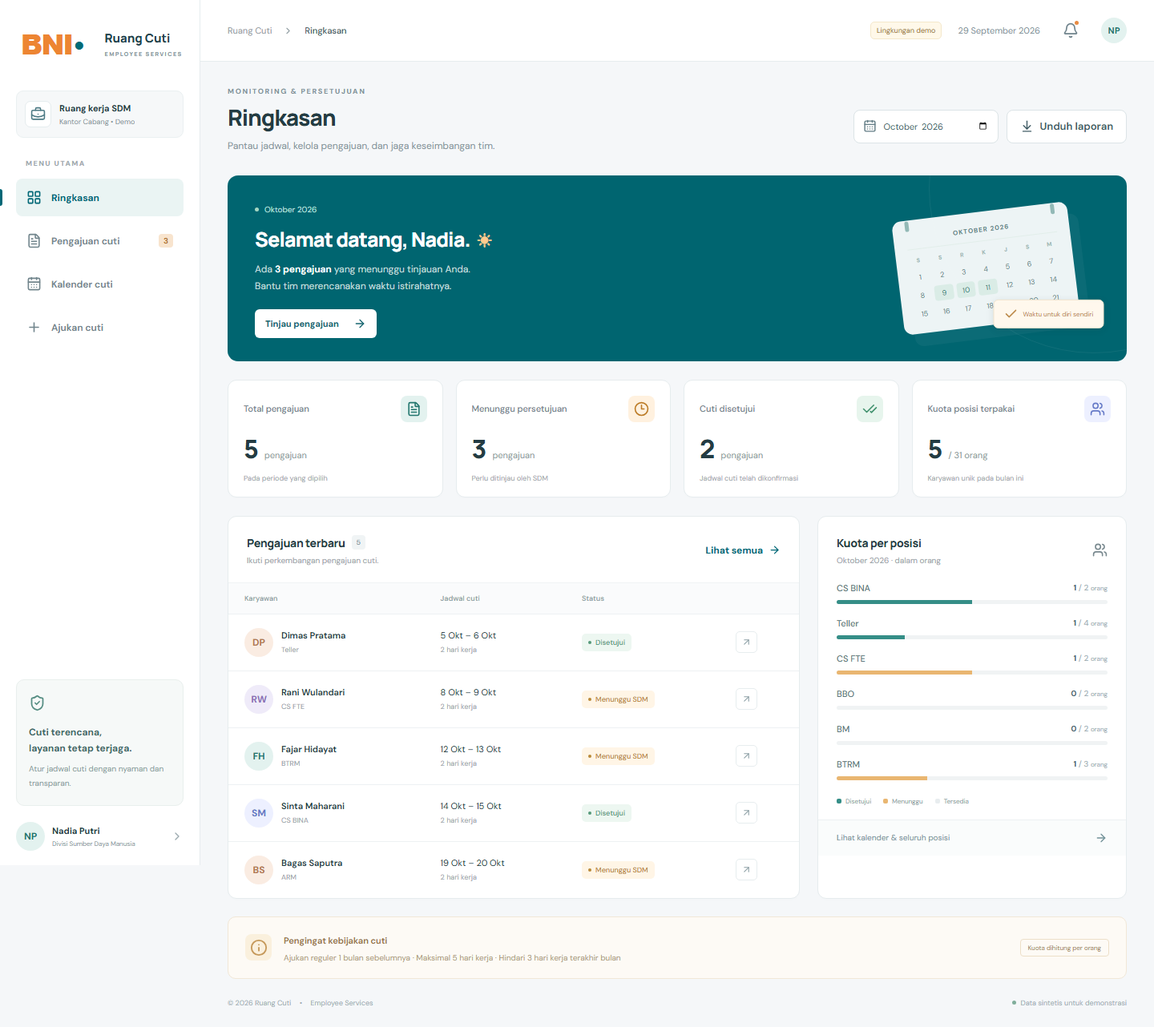
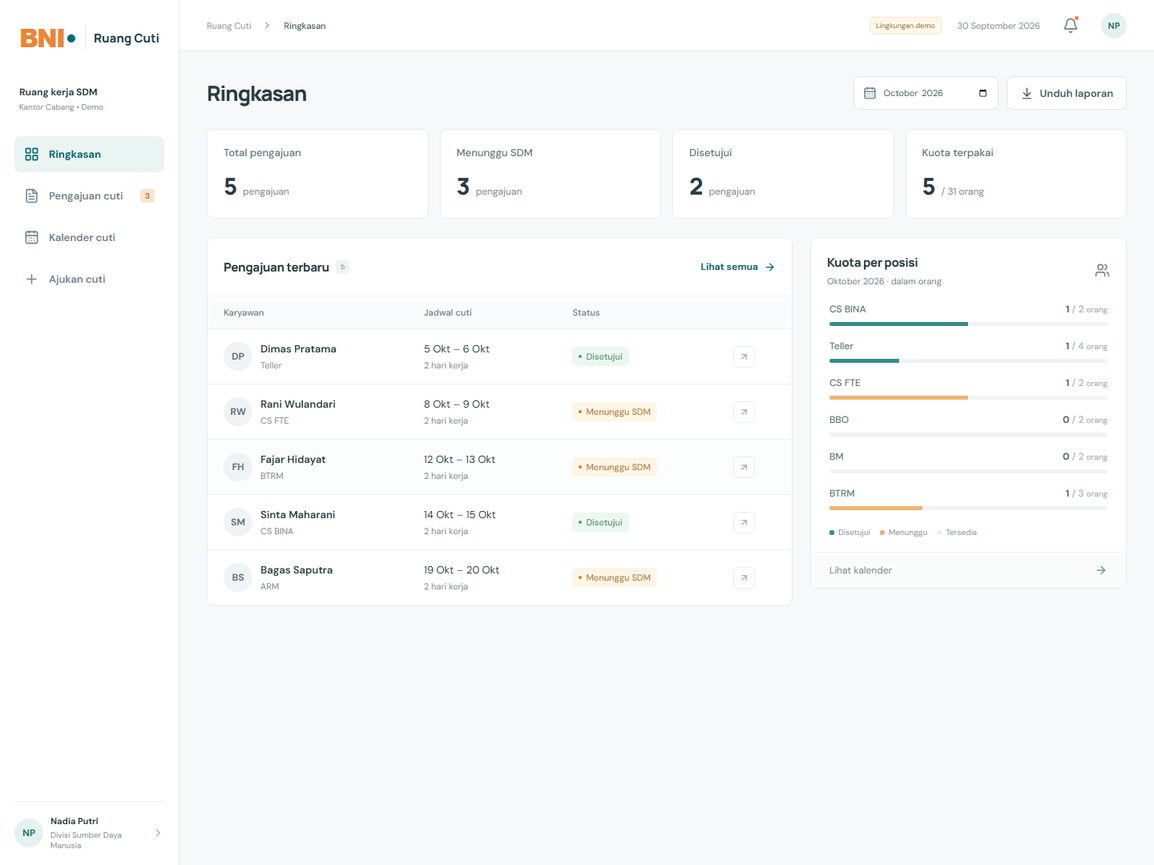
style: simplify leave management interface and dashboard

diff --git a/src/App.tsx b/src/App.tsx
@@ -6,7 +6,7 @@ const fmt=(d:string,full=false)=>d?new Intl.DateTimeFormat('id-ID',{day:'numeric
 const monthLabel=(m:string)=>new Intl.DateTimeFormat('id-ID',{month:'long',year:'numeric'}).format(new Date(m+'-01T00:00:00'));
 const initials=(name:string)=>name.split(' ').slice(0,2).map(n=>n[0]).join('');
 const Badge=({status}:{status:Leave['status']})=><span className={'badge '+status.toLowerCase()}><span/>{statusLabel[status]}</span>;
-const Empty=({title='Belum ada pengajuan',text='Pengajuan yang masuk akan tampil di sini.'}:{title?:string;text?:string})=><div className="empty"><FileText size={30}/><h3>{title}</h3><p>{text}</p></div>;
+const Empty=({title='Belum ada pengajuan',text=''}:{title?:string;text?:string})=><div className="empty"><FileText size={30}/><h3>{title}</h3>{text&&<p>{text}</p>}</div>;
 const Field=({label,children,hint}:{label:string;children:ReactNode;hint?:string})=><label className="field"><span>{label}</span>{children}{hint&&<small>{hint}</small>}</label>;
 type Page='dashboard'|'requests'|'calendar'|'form'|'profile'|'admin'|'notifications';
 export default function App(){
@@ -26,13 +26,13 @@ export default function App(){
   const pending=data?.requests.filter((r:Leave)=>r.status==='PENDING_SDM').length??0;
   return <div className="app-shell">
     {menu&&<div className="menu-scrim" onClick={()=>setMenu(false)}/>}
-    <aside className={'sidebar '+(menu?'open':'')}><div className="brand"><div className="brand-word">BNI<span>•</span></div><span className="brand-divider"/><div className="brand-product">Ruang Cuti<small>EMPLOYEE SERVICES</small></div></div>
+    <aside className={'sidebar '+(menu?'open':'')}><div className="brand"><div className="brand-word">BNI<span>•</span></div><span className="brand-divider"/><div className="brand-product">Ruang Cuti</div></div>
       <div className="workspace"><div className="workspace-icon"><BriefcaseBusiness size={19}/></div><div><strong>{sdm?'Ruang kerja SDM':admin?'Administrator':'Ruang karyawan'}</strong><small>{data?.unitName??'Kantor Cabang'}</small></div></div>
-      <p className="nav-label">MENU UTAMA</p><nav>{navItems.map(([id,Icon,label])=><button key={id} className={page===id?'active':''} onClick={()=>nav(id)}><Icon size={19}/><span>{label}</span>{id==='requests'&&pending>0&&<b className="nav-count">{pending}</b>}</button>)}{!admin&&<button className={page==='form'?'active':''} onClick={newLeave}><Plus size={19}/><span>Ajukan cuti</span></button>}{admin&&<button className={page==='admin'?'active':''} onClick={()=>nav('admin')}><Settings2 size={19}/><span>Administrasi</span></button>}</nav>
-      <div className="sidebar-bottom"><div className="sidebar-note"><ShieldCheck size={21}/><strong>Cuti terencana,<br/>layanan tetap terjaga.</strong><p>Atur jadwal cuti dengan nyaman dan transparan.</p></div><button className="user-card" onClick={()=>nav('profile')}><span className="avatar teal">{initials(user.name)}</span><span><strong>{user.name}</strong><small>{sdm?'Divisi Sumber Daya Manusia':positionLabel(user.position)}</small></span><ChevronRight size={16}/></button></div>
+      <nav>{navItems.map(([id,Icon,label])=><button key={id} className={page===id?'active':''} onClick={()=>nav(id)}><Icon size={19}/><span>{label}</span>{id==='requests'&&pending>0&&<b className="nav-count">{pending}</b>}</button>)}{!admin&&<button className={page==='form'?'active':''} onClick={newLeave}><Plus size={19}/><span>Ajukan cuti</span></button>}{admin&&<button className={page==='admin'?'active':''} onClick={()=>nav('admin')}><Settings2 size={19}/><span>Administrasi</span></button>}</nav>
+      <div className="sidebar-bottom"><button className="user-card" onClick={()=>nav('profile')}><span className="avatar teal">{initials(user.name)}</span><span><strong>{user.name}</strong><small>{sdm?'Divisi Sumber Daya Manusia':positionLabel(user.position)}</small></span><ChevronRight size={16}/></button></div>
     </aside>
     <div className="main-shell"><header className="topbar"><button className="icon-button mobile-menu" aria-label="Buka menu" onClick={()=>setMenu(true)}><Menu/></button><div className="breadcrumb">Ruang Cuti <ChevronRight size={13}/><strong>{pageTitles[page]}</strong></div><div className="top-actions">{config?.demo&&<span className="demo-pill">Lingkungan demo</span>}<span className="today">{fmt(data?.today??config?.today??dateOnly(),true)}</span><button className="icon-button notification-button" aria-label="Notifikasi" onClick={()=>nav(admin?'admin':'notifications')}><Bell size={20}/>{pending>0&&<i/>}</button><button className="avatar small teal" aria-label="Profil saya" onClick={()=>nav('profile')}>{initials(user.name)}</button></div></header>
-      <main><div className="page-heading"><div><p className="eyebrow">{sdm?'MONITORING & PERSETUJUAN':admin?'PENGELOLAAN SISTEM':'LAYANAN KARYAWAN'}</p><h1>{pageTitles[page]}</h1><p>{page==='dashboard'?'Pantau jadwal, kelola pengajuan, dan jaga keseimbangan tim.':page==='form'?'Rencanakan waktu istirahat Anda. Kami bantu periksa jadwalnya.':page==='calendar'?'Lihat ketersediaan jadwal dan cuti tim dalam satu kalender.':page==='requests'?'Semua pengajuan dan perkembangannya, dalam satu tempat.':'Kelola informasi dan aktivitas di Ruang Cuti.'}</p></div>{['dashboard','requests','calendar'].includes(page)&&<div className="heading-actions"><label className="month-control"><CalendarDays size={17}/><input aria-label="Bulan monitoring" type="month" value={month} onChange={e=>{if(e.target.value)setMonth(e.target.value);}}/></label>{sdm?<a className="button secondary" href={'/api/reports.csv?month='+month}><ArrowDownToLine size={17}/>Unduh laporan</a>:!admin&&<button className="button primary" onClick={newLeave}><Plus size={18}/>Ajukan cuti</button>}</div>}</div>
+      <main><div className="page-heading"><div><h1>{pageTitles[page]}</h1></div>{['dashboard','requests','calendar'].includes(page)&&<div className="heading-actions"><label className="month-control"><CalendarDays size={17}/><input aria-label="Bulan monitoring" type="month" value={month} onChange={e=>{if(e.target.value)setMonth(e.target.value);}}/></label>{sdm?<a className="button secondary" href={'/api/reports.csv?month='+month}><ArrowDownToLine size={17}/>Unduh laporan</a>:!admin&&<button className="button primary" onClick={newLeave}><Plus size={18}/>Ajukan cuti</button>}</div>}</div>
       {error&&<div className="alert danger" role="alert">{error}<button onClick={reload}>Coba lagi</button></div>}
       {loading&&!data?<div className="skeleton-grid"><div/><div/><div/></div>:data&&<>
         {page==='dashboard'&&<Dashboard data={data} month={month} sdm={!!sdm} name={user.name} onSelect={setSelected} onRequests={()=>nav('requests')} onCalendar={()=>nav('calendar')} onNew={newLeave} admin={!!admin}/>}
@@ -43,7 +43,7 @@ export default function App(){
         {page==='notifications'&&<section className="panel"><div className="panel-heading"><h2>Aktivitas pengajuan</h2><span className="muted">Status terbaru</span></div>{data.requests.length?data.requests.filter((r:Leave)=>r.status!=='DRAFT').slice(0,15).map((r:Leave)=><button className="activity-row" key={r.id} onClick={()=>setSelected(r)}><span className="activity-icon"><Bell size={18}/></span><span><strong>{r.employeeName} • {r.number}</strong><small>{r.events.at(-1)?.text} · {fmt(r.effectiveStart)}</small></span><Badge status={r.status}/></button>):<Empty title="Belum ada aktivitas"/>}</section>}
         {page==='admin'&&admin&&<Admin onChange={reload} onToast={setToast} today={data.today}/>}
       </>}
-      <footer className="footer"><span>© {new Date().getFullYear()} Ruang Cuti <span className="footer-dot">•</span> Employee Services</span><span><span className="live-dot"/> {config?.demo?'Data sintetis untuk demonstrasi':'Layanan internal'}</span></footer>
+
       </main>
     </div>
     {toast&&<div className="toast" role="status"><CheckCircle2 size={19}/>{toast}</div>}
@@ -53,24 +53,24 @@ export default function App(){
 function Login({config,onLogin}:{config:any;onLogin:(u:Employee)=>void}){
   const [email,setEmail]=useState('');const [password,setPassword]=useState('');const [error,setError]=useState('');const [busy,setBusy]=useState(false);
   async function login(e:FormEvent){e.preventDefault();setBusy(true);setError('');try{onLogin(await action('/login',{email,password}));}catch(e){setError((e as Error).message);}finally{setBusy(false);}}
-  return <div className="login"><div className="login-story"><div className="brand-word light">BNI<span>•</span></div><span className="story-label">RUANG CUTI / EMPLOYEE SERVICES</span><h1>Ruang untuk<br/>beristirahat.<br/><em>Siap untuk<br/>kembali.</em></h1><p>Pengajuan cuti yang lebih mudah, jadwal tim yang lebih terencana.</p><div className="login-mini"><CalendarDays size={30}/><div><strong>Satu ruang, semua terhubung.</strong><span>Karyawan · Tim SDM · Jadwal cuti</span></div></div><div className="story-circles"/></div><div className="login-main"><div className="login-box"><span className="login-icon"><Leaf size={25}/></span><p className="eyebrow">SELAMAT DATANG</p><h2>Masuk ke Ruang Cuti</h2><p className="muted">Gunakan akun karyawan Anda untuk melanjutkan.</p><form onSubmit={login}><Field label="Email karyawan"><input type="email" autoComplete="username" placeholder="nama@perusahaan.co.id" value={email} onChange={e=>setEmail(e.target.value)} required/></Field><Field label="Kata sandi"><input type="password" autoComplete="current-password" placeholder="Masukkan kata sandi" value={password} onChange={e=>setPassword(e.target.value)} required/></Field>{error&&<div className="alert danger" role="alert">{error}</div>}<button className="button primary full" disabled={busy}>{busy?'Memeriksa akun…':'Masuk'}<ArrowRight size={18}/></button></form>{config?.demo&&<div className="demo-accounts"><span>COBA DENGAN AKUN DEMO</span><div>{[['SDM','sdm'],['Karyawan','karyawan'],['Admin','admin']].map(([label,account])=><button key={account} onClick={()=>{setEmail(account+'@demo.bni.local');setPassword('BniCuti!2026');setError('');}}>{label}<ArrowUpRight size={13}/></button>)}</div><small>Akun dan data pada lingkungan ini adalah data contoh.</small></div>}<p className="login-security"><ShieldCheck size={15}/> Akses terbatas untuk karyawan yang terdaftar</p></div></div></div>;
+  return <div className="login"><div className="login-main"><div className="login-box"><div className="brand-word">BNI<span>•</span></div><h2>Ruang Cuti</h2><form onSubmit={login}><Field label="Email karyawan"><input type="email" autoComplete="username" placeholder="nama@perusahaan.co.id" value={email} onChange={e=>setEmail(e.target.value)} required/></Field><Field label="Kata sandi"><input type="password" autoComplete="current-password" placeholder="Masukkan kata sandi" value={password} onChange={e=>setPassword(e.target.value)} required/></Field>{error&&<div className="alert danger" role="alert">{error}</div>}<button className="button primary full" disabled={busy}>{busy?'Memeriksa akun…':'Masuk'}<ArrowRight size={18}/></button></form>{config?.demo&&<div className="demo-accounts"><span>AKUN DEMO</span><div>{[['SDM','sdm'],['Karyawan','karyawan'],['Admin','admin']].map(([label,account])=><button key={account} onClick={()=>{setEmail(account+'@demo.bni.local');setPassword('BniCuti!2026');setError('');}}>{label}<ArrowUpRight size={13}/></button>)}</div><small>Data contoh untuk uji coba.</small></div>}</div></div></div>;
 }
-function Dashboard({data,month,sdm,name,onSelect,onRequests,onCalendar,onNew,admin}:any){
+function Dashboard({data,month,sdm,onSelect,onRequests,onCalendar}:any){
   const current:Leave[]=data.requests.filter((r:Leave)=>r.effectiveStart.startsWith(month)&&r.status!=='DRAFT');const waiting=current.filter(r=>r.status==='PENDING_SDM');const approved=current.filter(r=>r.status==='APPROVED');const quotas:Quota[]=data.quotas;const used=quotas.reduce((a,q)=>a+q.used,0);const total=quotas.reduce((a,q)=>a+q.limit,0);
-  return <><section className="welcome"><div><span className="welcome-label"><span/> {monthLabel(month)}</span><h2>Selamat datang, {name.split(' ')[0]}. <span className="sun">☀</span></h2><p>{sdm?<>{waiting.length?<>Ada <strong>{waiting.length} pengajuan</strong> yang menunggu tinjauan Anda.</>:'Semua pengajuan bulan ini sudah tertangani.'}<br/>Bantu tim merencanakan waktu istirahatnya.</>:<>Waktu istirahat yang terencana dimulai dari sini.<br/>Periksa kuota dan pilih jadwal yang sesuai.</>}</p><button onClick={sdm?onRequests:admin?onCalendar:onNew}>{sdm?'Tinjau pengajuan':admin?'Lihat kalender':'Rencanakan cuti'}<ArrowRight size={16}/></button></div><div className="hero-calendar" aria-hidden="true"><div className="mini-calendar-top"><span/>{monthLabel(month).toUpperCase()}<span/></div><div className="mini-days">{'S S R K J S M'.split(' ').map((d,i)=><b key={i}>{d}</b>)}{Array.from({length:21},(_,i)=><i className={[8,9,10].includes(i)?'highlight':''} key={i}>{i+1}</i>)}</div><div className="calendar-stamp"><Check size={18}/> Waktu untuk diri sendiri</div></div></section>
+  return <>
     <div className="stats-grid">{[
-      {label:'Total pengajuan',value:current.length,unit:'pengajuan',icon:FileText,color:'teal',note:'Pada periode yang dipilih'},
-      {label:'Menunggu persetujuan',value:waiting.length,unit:'pengajuan',icon:Clock3,color:'orange',note:waiting.length?'Perlu ditinjau oleh SDM':'Tidak ada antrean review'},
-      {label:'Cuti disetujui',value:approved.length,unit:'pengajuan',icon:CheckCheck,color:'green',note:'Jadwal cuti telah dikonfirmasi'},
-      {label:'Kuota posisi terpakai',value:used,unit:`/ ${total} orang`,icon:Users,color:'blue',note:'Karyawan unik pada bulan ini'},
-    ].map(s=><article className="stat-card" key={s.label}><div className="stat-head"><span>{s.label}</span><span className={'stat-icon '+s.color}><s.icon size={19}/></span></div><div className="stat-value">{s.value}<span>{s.unit}</span></div><p>{s.note}</p></article>)}</div>
-    <div className="dashboard-grid"><section className="panel requests-panel"><div className="panel-heading"><div><h2>{sdm?'Pengajuan terbaru':'Pengajuan Anda'} <span className="count-bubble">{current.length}</span></h2><p>Ikuti perkembangan pengajuan cuti.</p></div><button className="text-button" onClick={onRequests}>Lihat semua<ArrowRight size={15}/></button></div><RequestTable requests={current.slice(0,5)} onSelect={onSelect} compact/></section>
-      <section className="panel quota-panel"><div className="panel-heading"><div><h2>Kuota per posisi</h2><p>{monthLabel(month)} · dalam orang</p></div><Users size={19} className="muted"/></div><div className="quota-list">{quotas.slice(0,sdm?6:14).map(q=><div className="quota-row" key={q.position}><div><strong>{q.label}</strong><span><b>{q.used}</b> / {q.limit} <small>orang</small></span></div><div className="progress-track"><span style={{width:(q.limit?100*q.approved/q.limit:0)+'%'}}/><i style={{width:(q.limit?100*q.pending/q.limit:0)+'%'}}/></div></div>)}</div><div className="legend"><span><i className="teal-dot"/>Disetujui</span><span><i className="orange-dot"/>Menunggu</span><span><i className="gray-dot"/>Tersedia</span></div><button className="quota-link" onClick={onCalendar}>Lihat kalender & seluruh posisi<ArrowRight size={16}/></button></section>
+      {label:'Total pengajuan',value:current.length,unit:'pengajuan'},
+      {label:'Menunggu SDM',value:waiting.length,unit:'pengajuan'},
+      {label:'Disetujui',value:approved.length,unit:'pengajuan'},
+      {label:'Kuota terpakai',value:used,unit:`/ ${total} orang`},
+    ].map(s=><article className="stat-card" key={s.label}><div className="stat-head"><span>{s.label}</span></div><div className="stat-value">{s.value}<span>{s.unit}</span></div></article>)}</div>
+    <div className="dashboard-grid"><section className="panel requests-panel"><div className="panel-heading"><div><h2>{sdm?'Pengajuan terbaru':'Pengajuan Anda'} <span className="count-bubble">{current.length}</span></h2></div><button className="text-button" onClick={onRequests}>Lihat semua<ArrowRight size={15}/></button></div><RequestTable requests={current.slice(0,5)} onSelect={onSelect} compact/></section>
+      <section className="panel quota-panel"><div className="panel-heading"><div><h2>Kuota per posisi</h2><p>{monthLabel(month)} · dalam orang</p></div><Users size={19} className="muted"/></div><div className="quota-list">{quotas.slice(0,sdm?6:14).map(q=><div className="quota-row" key={q.position}><div><strong>{q.label}</strong><span><b>{q.used}</b> / {q.limit} <small>orang</small></span></div><div className="progress-track"><span style={{width:(q.limit?100*q.approved/q.limit:0)+'%'}}/><i style={{width:(q.limit?100*q.pending/q.limit:0)+'%'}}/></div></div>)}</div><div className="legend"><span><i className="teal-dot"/>Disetujui</span><span><i className="orange-dot"/>Menunggu</span><span><i className="gray-dot"/>Tersedia</span></div><button className="quota-link" onClick={onCalendar}>Lihat kalender<ArrowRight size={16}/></button></section>
     </div>
-    <section className="rules-strip"><span className="rules-icon"><Info size={22}/></span><div><strong>Pengingat kebijakan cuti</strong><p>Ajukan reguler 1 bulan sebelumnya · Maksimal 5 hari kerja · Hindari 3 hari kerja terakhir bulan</p></div><span className="policy-tag">Kuota dihitung per orang</span></section>
+
   </>;
 }
-function RequestTable({requests,onSelect,compact=false,onDraft}:{requests:Leave[];onSelect:(r:Leave)=>void;compact?:boolean;onDraft?:(r:Leave)=>void}){return requests.length?<div className="table-scroll"><table><thead><tr><th>Karyawan</th><th>Jadwal cuti</th>{!compact&&<th>Jenis</th>}<th>Status</th><th aria-label="Aksi"/></tr></thead><tbody>{requests.map((r,i)=><tr key={r.id}><td><div className="person"><span className={'avatar '+['peach','lavender','teal','blue'][i%4]}>{initials(r.employeeName)}</span><div><strong>{r.employeeName}</strong><small>{positionLabel(r.position)}</small></div></div></td><td><span className="date-range">{fmt(r.effectiveStart||r.start)}{r.effectiveEnd!==r.effectiveStart?' – '+fmt(r.effectiveEnd||r.end):''}</span><small>{r.duration} hari kerja</small></td>{!compact&&<td><span className={'category '+r.category.toLowerCase()}>{r.category==='REGULAR'?'Reguler':'Darurat'}</span><small>{r.number}</small></td>}<td><Badge status={r.status}/></td><td><button className="icon-button table-arrow" aria-label={'Lihat '+r.employeeName+' '+r.number} onClick={()=>r.status==='DRAFT'&&onDraft?onDraft(r):onSelect(r)}><ArrowUpRight size={17}/></button></td></tr>)}</tbody></table></div>:<Empty/>;}
+function RequestTable({requests,onSelect,compact=false,onDraft}:{requests:Leave[];onSelect:(r:Leave)=>void;compact?:boolean;onDraft?:(r:Leave)=>void}){return requests.length?<div className="table-scroll"><table><thead><tr><th>Karyawan</th><th>Jadwal cuti</th>{!compact&&<th>Jenis</th>}<th>Status</th><th aria-label="Aksi"/></tr></thead><tbody>{requests.map((r,i)=><tr key={r.id}><td><div className="person"><span className="avatar neutral">{initials(r.employeeName)}</span><div><strong>{r.employeeName}</strong><small>{positionLabel(r.position)}</small></div></div></td><td><span className="date-range">{fmt(r.effectiveStart||r.start)}{r.effectiveEnd!==r.effectiveStart?' – '+fmt(r.effectiveEnd||r.end):''}</span><small>{r.duration} hari kerja</small></td>{!compact&&<td><span className={'category '+r.category.toLowerCase()}>{r.category==='REGULAR'?'Reguler':'Darurat'}</span><small>{r.number}</small></td>}<td><Badge status={r.status}/></td><td><button className="icon-button table-arrow" aria-label={'Lihat '+r.employeeName+' '+r.number} onClick={()=>r.status==='DRAFT'&&onDraft?onDraft(r):onSelect(r)}><ArrowUpRight size={17}/></button></td></tr>)}</tbody></table></div>:<Empty/>;}
 function RequestList({requests,month,sdm,onSelect,onDraft}:any){const [query,setQuery]=useState('');const [status,setStatus]=useState('ALL');const filtered=requests.filter((r:Leave)=>(r.effectiveStart.startsWith(month)||r.status==='DRAFT')&&(status==='ALL'||r.status===status)&&`${r.employeeName} ${r.number} ${positionLabel(r.position)}`.toLowerCase().includes(query.toLowerCase()));return <section className="panel"><div className="list-toolbar"><div className="tabs">{[['ALL','Semua'],['PENDING_SDM','Menunggu'],['APPROVED','Disetujui'],['REJECTED','Ditolak'],...(!sdm?[['DRAFT','Draft'],['WITHDRAWN','Ditarik']]:[])].map(([id,label])=><button key={id} className={status===id?'selected':''} onClick={()=>setStatus(id)}>{label}</button>)}</div><label className="search"><Search size={17}/><input aria-label="Cari pengajuan" placeholder="Cari nama atau nomor…" value={query} onChange={e=>setQuery(e.target.value)}/></label></div><RequestTable requests={filtered} onSelect={onSelect} onDraft={onDraft}/><div className="table-footer">Menampilkan {filtered.length} pengajuan · {monthLabel(month)}</div></section>;}
 function CalendarView({data,month,setMonth,onSelect}:any){const [position,setPosition]=useState('ALL');const days=monthDays(month);const offset=(new Date(month+'-01T00:00:00').getDay()+6)%7;const entries=data.calendar.filter((r:any)=>position==='ALL'||r.position===position);return <><section className="panel calendar-panel"><div className="panel-heading"><div className="calendar-heading"><button className="icon-button" aria-label="Bulan sebelumnya" onClick={()=>setMonth(addMonths(month+'-01',-1).slice(0,7))}><ChevronLeft size={18}/></button><h2>{monthLabel(month)}</h2><button className="icon-button" aria-label="Bulan berikutnya" onClick={()=>setMonth(addMonths(month+'-01',1).slice(0,7))}><ChevronRight size={18}/></button></div><select aria-label="Filter posisi kalender" value={position} onChange={e=>setPosition(e.target.value)}><option value="ALL">Semua posisi</option>{data.quotas.map((q:Quota)=><option key={q.position} value={q.position}>{q.label}</option>)}</select></div><div className="calendar-scroll"><div className="calendar-grid">{['Sen','Sel','Rab','Kam','Jum','Sab','Min'].map(d=><div className="weekday" key={d}>{d}</div>)}{Array.from({length:offset},(_,i)=><div className="day outside" key={'o'+i}/>)}{days.map(d=>{const blocked=data.blocked.includes(d);const off=!isWorking(d,data.calendarConfig);return <div key={d} className={'day '+(blocked?'blocked ':'')+(off?'off ':'')+(d===data.today?'current':'')}><div className="day-number">{Number(d.slice(-2))}{blocked&&<small>H-3</small>}</div>{data.calendarConfig.exceptions[d]&&<small className="holiday-label">{data.calendarConfig.exceptions[d].label}</small>}{entries.filter((r:any)=>r.days.includes(d)).map((r:any,i:number)=><button disabled={!r.id} key={r.id+'-'+i} onClick={()=>onSelect(r.id)} className={'calendar-event '+(r.status==='APPROVED'?'approved':'pending')}><span>{r.name}</span><small>{positionLabel(r.position)} · {r.status==='APPROVED'?'Disetujui':'Menunggu'}</small></button>)}</div>;})}</div></div><div className="legend calendar-legend"><span><i className="teal-dot"/>Disetujui</span><span><i className="orange-dot"/>Menunggu SDM</span><span><i className="blocked-dot"/>3 hari kerja terakhir</span><span>Kalender kerja unit: Senin–Jumat + pengecualian admin</span></div></section><section className="panel all-quotas"><div className="panel-heading"><h2>Kapasitas posisi bulan ini</h2><span className="muted">Terpakai / kuota orang</span></div><div className="quota-cards">{data.quotas.map((q:Quota)=><div key={q.position}><strong>{q.label}</strong><span>{q.used}<small> / {q.limit}</small></span><p>{q.available} orang tersedia</p></div>)}</div></section></>;}
 
@@ -87,11 +87,11 @@ function LeaveForm({user,today,draft,calendar,onDone,onDelete}:{user:Employee;to
   return <div className="form-layout"><section className="panel form-panel"><div className="section-number"><b>01</b><div><h2>Detail pengajuan</h2><p>{user.name} · {positionLabel(user.position)}</p></div></div><div className="category-options"><button className={input.category==='REGULAR'?'chosen':''} onClick={()=>{update('category','REGULAR');update('subtype','');}}><CalendarDays size={23}/><strong>Cuti reguler</strong><small>Rencanakan satu bulan sebelumnya</small>{input.category==='REGULAR'&&<CheckCircle2 size={17}/>}</button><button className={input.category==='EMERGENCY'?'chosen':''} onClick={()=>{update('category','EMERGENCY');update('subtype','Cuti Duka');setEmergencyType('Cuti Duka');}}><Clock3 size={23}/><strong>Cuti darurat</strong><small>Tanpa masa tunggu satu bulan</small>{input.category==='EMERGENCY'&&<CheckCircle2 size={17}/>}</button></div>
       {input.category==='EMERGENCY'?<><Field label="Jenis cuti darurat"><select value={emergencyType} onChange={e=>{setEmergencyType(e.target.value);update('subtype',e.target.value==='Lainnya'?'':e.target.value);}}><option>Cuti Duka</option><option>Cuti Sakit</option><option>Lainnya</option></select></Field>{emergencyType==='Lainnya'&&<Field label="Nama jenis cuti"><input value={input.subtype} onChange={e=>update('subtype',e.target.value)} maxLength={120}/></Field>}</>:<Field label="Jenis cuti"><input placeholder="Contoh: keperluan keluarga" value={input.subtype} onChange={e=>update('subtype',e.target.value)} maxLength={120}/></Field>}
       <Field label="Alasan pengajuan" hint="Minimal 10 karakter. Alasan hanya dapat dilihat oleh Anda dan SDM berwenang."><textarea rows={3} value={input.reason} onChange={e=>update('reason',e.target.value)} placeholder="Ceritakan keperluan cuti Anda…" maxLength={2000}/></Field>
-      <div className="section-number separated"><b>02</b><div><h2>Jadwal cuti</h2><p>Durasi dihitung otomatis berdasarkan hari kerja.</p></div></div><div className="alert info"><Info size={18}/><span>{input.category==='REGULAR'?`Batas masa tunggu: ${fmt(minimum,true)}. `:'Cuti darurat dapat dimulai hari ini. '}Hindari 3 hari kerja terakhir bulan; maksimal 5 hari kerja.</span></div><div className="field-grid"><Field label="Tanggal mulai"><input type="date" min={minimum} value={input.start} onChange={e=>update('start',e.target.value)}/></Field><Field label="Tanggal akhir"><input type="date" min={input.start||minimum} value={input.end} onChange={e=>update('end',e.target.value)}/></Field></div>
+      <div className="section-number separated"><b>02</b><div><h2>Jadwal cuti</h2></div></div><div className="alert info"><Info size={18}/><span>{input.category==='REGULAR'?`Batas masa tunggu: ${fmt(minimum,true)}. `:'Cuti darurat dapat dimulai hari ini. '}Hindari 3 hari kerja terakhir bulan; maksimal 5 hari kerja.</span></div><div className="field-grid"><Field label="Tanggal mulai"><input type="date" min={minimum} value={input.start} onChange={e=>update('start',e.target.value)}/></Field><Field label="Tanggal akhir"><input type="date" min={input.start||minimum} value={input.end} onChange={e=>update('end',e.target.value)}/></Field></div>
       {input.start&&!isWorking(input.start,calendar)&&<div className="alert danger">Tanggal mulai bukan hari kerja. Pilih hari kerja lain.</div>}
-      <div className="section-number separated"><b>03</b><div><h2>Informasi kontak</h2><p>Diisi dari profil, dapat disesuaikan untuk pengajuan ini.</p></div></div><div className="field-grid"><Field label="Nomor HP"><input type="tel" value={input.phone} onChange={e=>update('phone',e.target.value)}/></Field><Field label="Email pemberitahuan"><input type="email" value={input.email} onChange={e=>update('email',e.target.value)}/></Field></div>
+      <div className="section-number separated"><b>03</b><div><h2>Informasi kontak</h2></div></div><div className="field-grid"><Field label="Nomor HP"><input type="tel" value={input.phone} onChange={e=>update('phone',e.target.value)}/></Field><Field label="Email pemberitahuan"><input type="email" value={input.email} onChange={e=>update('email',e.target.value)}/></Field></div>
       {error&&<div className="alert danger" role="alert">{error}</div>}<div className="form-actions"><button className="button secondary" disabled={busy} onClick={save}><Save size={17}/>Simpan draft</button><button className="button primary" disabled={busy||checking||!p||!!p.errors.length} onClick={()=>setReview(true)}>Tinjau pengajuan<ArrowRight size={17}/></button></div>{draft?.id&&<button className="text-button" disabled={busy} onClick={()=>setDeleting(true)}>Hapus draft ini</button>}
-    </section><aside className="form-summary panel"><div className="summary-icon"><CalendarDays size={24}/></div><h2>Ringkasan cuti</h2><p>Periksa sebelum mengirim pengajuan.</p>{checking?<p role="status">Menghitung tanggal dan kuota…</p>:p?<><div className="duration"><strong>{p.duration}</strong><span>hari kerja</span></div><dl><dt>Tanggal diminta</dt><dd>{fmt(input.start)} – {fmt(input.end)}</dd><dt>Tanggal efektif</dt><dd>{fmt(p.effectiveStart)} – {fmt(p.effectiveEnd)}</dd><dt>Kuota tersedia</dt><dd>{p.quota.available} dari {p.quota.limit} orang</dd><dt>Tambahan pemakaian</dt><dd>{p.quota.alreadyCounted?'0 (Anda sudah terhitung)':'1 orang'}</dd><dt>Status awal</dt><dd>Menunggu SDM</dd></dl>{p.adjusted&&<div className="alert warning"><Info size={17}/><span>Tanggal akhir disesuaikan menjadi {fmt(p.effectiveEnd,true)} mengikuti hari kerja dan batas H-3.</span></div>}{p.errors.map(e=><div className="alert danger" key={e.code} role="alert">{e.message}</div>)}{p.scheduledAt&&<div className="email-note"><Mail size={18}/><span>Pengingat SDM: {new Date(p.scheduledAt).toLocaleString('id-ID',{timeZone:'Asia/Jakarta'})} WIB</span></div>}</>:<div className="summary-placeholder"><CalendarDays size={38}/><p>Lengkapi jenis, alasan, tanggal, dan kontak untuk melihat perhitungan.</p></div>}<div className="summary-foot"><ShieldCheck size={17}/>Keputusan akhir melalui review SDM.</div></aside>
+    </section><aside className="form-summary panel"><h2>Ringkasan cuti</h2>{checking?<p role="status">Menghitung tanggal dan kuota…</p>:p?<><div className="duration"><strong>{p.duration}</strong><span>hari kerja</span></div><dl><dt>Tanggal diminta</dt><dd>{fmt(input.start)} – {fmt(input.end)}</dd><dt>Tanggal efektif</dt><dd>{fmt(p.effectiveStart)} – {fmt(p.effectiveEnd)}</dd><dt>Kuota tersedia</dt><dd>{p.quota.available} dari {p.quota.limit} orang</dd><dt>Tambahan pemakaian</dt><dd>{p.quota.alreadyCounted?'0 (Anda sudah terhitung)':'1 orang'}</dd><dt>Status awal</dt><dd>Menunggu SDM</dd></dl>{p.adjusted&&<div className="alert warning"><Info size={17}/><span>Tanggal akhir disesuaikan menjadi {fmt(p.effectiveEnd,true)} mengikuti hari kerja dan batas H-3.</span></div>}{p.errors.map(e=><div className="alert danger" key={e.code} role="alert">{e.message}</div>)}{p.scheduledAt&&<div className="email-note"><Mail size={18}/><span>Pengingat SDM: {new Date(p.scheduledAt).toLocaleString('id-ID',{timeZone:'Asia/Jakarta'})} WIB</span></div>}</>:<div className="summary-placeholder"><CalendarDays size={38}/><p>Lengkapi form untuk melihat ringkasan.</p></div>}</aside>
     {review&&p&&<Modal title="Tinjau pengajuan cuti" onClose={()=>setReview(false)}><Badge status="DRAFT"/><h3>{input.subtype}</h3><p className="reason-text">{input.reason}</p><dl><dt>Kategori</dt><dd>{input.category==='REGULAR'?'Reguler':'Darurat'}</dd><dt>Tanggal diminta</dt><dd>{fmt(input.start,true)} – {fmt(input.end,true)}</dd><dt>Tanggal efektif</dt><dd>{fmt(p.effectiveStart,true)} – {fmt(p.effectiveEnd,true)}</dd><dt>Durasi</dt><dd>{p.duration} hari kerja · {p.quota.alreadyCounted?'slot sudah terhitung':'1 slot orang'}</dd><dt>Kontak</dt><dd>{input.phone}<br/>{input.email}</dd></dl>{p.adjusted&&<label className="checkbox"><input type="checkbox" checked={accepted} onChange={e=>setAccepted(e.target.checked)}/>Saya memahami tanggal dan durasi yang disesuaikan.</label>}{error&&<div className="alert danger">{error}</div>}<div className="modal-actions"><button className="button secondary" onClick={()=>setReview(false)}>Kembali</button><button className="button primary" disabled={busy||(p.adjusted&&!accepted)} onClick={send}><Send size={17}/>{busy?'Mengirim…':'Kirim pengajuan'}</button></div></Modal>}
     {deleting&&<Modal title="Hapus draft?" onClose={()=>setDeleting(false)}><p className="reason-text">Draft ini akan dihapus. Kuota tidak berubah karena draft belum memakai slot.</p><div className="modal-actions"><button className="button secondary" onClick={()=>setDeleting(false)}>Kembali</button><button className="button danger-button" disabled={busy} onClick={async()=>{setBusy(true);try{await api('/drafts/'+draft!.id,{method:'DELETE',key:crypto.randomUUID()});onDelete();}catch(e){setError((e as Error).message);setDeleting(false);}finally{setBusy(false);}}}>Hapus draft</button></div></Modal>}
   </div>;

diff --git a/src/styles.css b/src/styles.css
@@ -5,3 +5,24 @@
 @media(max-width:760px){.sidebar{transform:translateX(-100%);transition:transform .2s;width:250px}.sidebar.open{transform:translateX(0)}.main-shell{margin-left:0}.mobile-menu{display:flex}.menu-scrim{position:fixed;inset:0;background:#12374150;z-index:39}.topbar{height:65px;padding:0 16px;justify-content:initial}.breadcrumb{font-size:10px;gap:8px}.top-actions{margin-left:auto;gap:8px}.demo-pill{font-size:8px}.top-actions>.avatar{display:none}main{padding:23px 18px 0}.page-heading{gap:17px;margin-bottom:21px}.page-heading h1{font-size:25px}.page-heading p:not(.eyebrow){font-size:11px}.heading-actions{width:100%;justify-content:space-between}.heading-actions .button{font-size:11px;padding:9px 12px}.month-control{height:38px}.month-control input{width:126px;font-size:10px}.welcome{padding:23px;min-height:205px}.welcome h2{font-size:22px}.welcome p{font-size:11px}.hero-calendar{width:165px;margin-right:6px}.stats-grid{gap:11px}.stat-card{padding:16px}.stat-head>span:first-child{font-size:10px}.stat-icon{height:29px;width:29px}.stat-icon svg{width:16px}.stat-value{font-size:30px}.stat-value>span{font-size:10px;margin-left:5px}.stat-card p{font-size:8px}.rules-strip{padding:16px}.rules-strip p{font-size:9px}.footer{font-size:8px;gap:10px;align-items:flex-start;line-height:1.7}.footer>span:last-child{max-width:120px}.footer-dot{margin:0 4px}.login{grid-template-columns:1fr}.login-story{display:none}.login-main{min-height:100vh;padding:35px 25px}.login-box{width:380px}.category-options button{padding:14px}.field-grid{gap:12px}.modal-backdrop{padding:12px}.modal{max-height:94vh}.modal-header{padding:14px 18px}.modal-header h2{font-size:14px}.modal-body{padding:20px}.detail-title{flex-wrap:wrap}.calendar-heading{gap:5px}.calendar-heading h2{font-size:13px}.calendar-panel .panel-heading{flex-wrap:wrap}.calendar-panel select{font-size:10px;max-width:150px}.calendar-legend{font-size:9px}.quota-cards{grid-template-columns:repeat(3,1fr);padding:0 16px 16px;gap:8px}.quota-cards>div{padding:12px 10px}.all-quotas .panel-heading{align-items:start;flex-direction:column}.all-quotas .muted{font-size:10px}.admin-content{padding:18px}.admin-quotas{padding:0}.profile-panel{padding:25px}.activity-row{padding:15px;flex-wrap:wrap}.activity-row>span:nth-child(2){min-width:180px}.activity-row .badge{margin-left:50px}.table-scroll table{min-width:510px}.requests-panel table{min-width:480px}.form-actions .button{font-size:11px}.form-summary{padding:22px}.login-box h2{font-size:27px}input,textarea,select{font-size:16px}.field{font-size:12px}.tabs button{font-size:10px;padding:10px}.list-toolbar{padding:12px}.search{width:100%}.search input{width:100%;font-size:13px}.exception-list>div{flex-wrap:wrap}.mono{font-size:9px}}
 @media(max-width:480px){.hero-calendar{display:none}.welcome{min-height:210px}.welcome h2{font-size:23px}.welcome p{font-size:11px}.welcome button{font-size:11px}.stat-card{padding:14px 12px}.stat-icon{height:26px;width:26px}.stat-head>span:first-child{font-size:9px}.stat-value{font-size:28px}.stat-value>span{font-size:9px}.stat-card p{font-size:8px}.stats-grid{gap:10px}.panel-heading .text-button{font-size:10px}.panel-heading h2{font-size:13px}.quota-list{column-gap:22px}.rules-strip{gap:10px;padding:13px}.rules-strip strong{font-size:10px}.rules-icon{width:29px;height:29px}.rules-strip p{font-size:8px}.field-grid,.field-grid.three{grid-template-columns:1fr;gap:0}.field-grid.three>:last-child{grid-column:auto}.category-options{gap:9px}.category-options small{font-size:9px}.category-options strong{font-size:12px}.form-panel{padding:18px}.form-actions{flex-wrap:wrap}.form-actions .button{flex:1}.detail-dates{gap:12px}.detail-dates strong{font-size:11px}.modal-actions .button{flex:1;font-size:11px}.inline-actions .button{font-size:11px}.breadcrumb{gap:5px}.top-actions{gap:3px}.demo-pill{font-size:7px}.brand-word{font-size:34px}.quota-cards{grid-template-columns:repeat(2,1fr)}.modal-body dl{font-size:11px}.topbar .notification-button{width:30px}}
 @media(prefers-reduced-motion:reduce){*{animation:none!important;transition:none!important;scroll-behavior:auto!important}}
+
+/* Compact workspace: operational content first, no promotional panels. */
+:root{background:#f7f8fa;color:#293c43}
+main{padding-bottom:32px}
+.sidebar{width:224px;padding:25px 18px 18px}
+.main-shell{margin-left:224px}
+.brand{gap:11px}.brand-product{font-size:15px}.brand-word{font-size:31px}
+.workspace{margin:28px 0 20px;background:transparent;border:0;padding:10px 6px}.workspace-icon{display:none}.workspace strong{font-size:12px}.workspace small{font-size:10px;max-width:175px}
+nav button{font-size:13px;padding:13px 12px}nav button.active:before{display:none}
+.sidebar-bottom{padding-top:24px}.user-card{border-top:1px solid var(--border);padding-top:17px}.user-card small{font-size:10px}
+.topbar{height:64px}.page-heading{margin-bottom:24px}.page-heading h1{font-size:26px;margin:0}.heading-actions{margin-top:0}
+.stats-grid{gap:14px}.stat-card{padding:20px;border-radius:8px;box-shadow:none}.stat-head>span:first-child{font-size:13px;color:#637780}.stat-value{font-size:29px;margin:13px 0 0}.stat-value>span{font-size:12px;color:#7d8d94}
+.dashboard-grid{align-items:start}.panel{box-shadow:none;border-radius:8px}.panel-heading{padding:20px}.panel-heading h2{font-size:15px}.panel-heading p{font-size:11px;color:#758990}
+th{font-size:11px;color:#6b7e85}td{padding:16px 20px;font-size:13px}td>small{font-size:11px;color:#7e9199}.person strong{font-size:13px}.person small{font-size:11px;color:#7e9199}.neutral{background:#f0f3f5;color:#61767e}.badge{font-size:11px;padding:5px 8px}
+.quota-row strong,.quota-row span{font-size:12px}.quota-row small{font-size:10px}.legend{font-size:10px;gap:12px}.quota-link{font-size:12px}.text-button{font-size:12px}
+.empty{padding:45px 20px}.empty svg{display:none}.empty h3{margin:0;color:#788b93;font-family:inherit;font-weight:400;font-size:14px}
+.login{display:block;background:#f7f8fa}.login-main{min-height:100vh;background:transparent}.login-box{background:#fff;border:1px solid var(--border);border-radius:12px;padding:32px;width:400px}.login-box h2{margin:14px 0 28px;font-size:24px}
+.section-number>b{display:none}.section-number{margin-bottom:18px}.form-summary h2{font-size:16px}.summary-placeholder{padding:24px 8px}.summary-placeholder>svg{display:none}
+@media(max-width:1200px){.sidebar{width:210px}.main-shell{margin-left:210px}.brand-product{font-size:13px}.stat-card{padding:18px}.stat-head>span:first-child{font-size:12px}}
+@media(max-width:760px){.main-shell{margin-left:0}.sidebar{width:240px}.topbar{height:60px}.page-heading h1{font-size:24px}.stat-card{padding:17px}.stat-value{font-size:28px}.stats-grid{gap:12px}.stat-value>span{font-size:11px}.dashboard-grid{gap:18px}.person strong{font-size:12px}.panel-heading{padding:18px}.login-box{padding:25px}.quota-list{column-gap:20px}
+ .requests-panel table{min-width:0}.requests-panel thead{display:none}.requests-panel tbody{display:block}.requests-panel tr{display:grid;grid-template-columns:1fr auto;gap:10px;padding:16px 18px;border-top:1px solid var(--border);position:relative}.requests-panel td{border:0;padding:0}.requests-panel td:nth-child(1){grid-column:1}.requests-panel td:nth-child(2){grid-column:1;padding-left:46px}.requests-panel td:nth-child(3){grid-column:2;grid-row:1}.requests-panel td:nth-child(4){grid-column:2;grid-row:2;text-align:right}.requests-panel .person small{font-size:10px}.requests-panel .badge{font-size:10px}.requests-panel .date-range{font-size:12px}.requests-panel td>small{font-size:10px}}

diff --git a/tests/e2e/workflow.spec.ts b/tests/e2e/workflow.spec.ts
@@ -4,11 +4,11 @@ import {addMonths,addDays,blockedDays,isWorking,DEFAULT_CALENDAR} from '../../sh
 async function login(page:Page,role:string){await page.goto('/');await page.getByRole('button',{name:role,exact:true}).click();await page.getByRole('button',{name:'Masuk',exact:true}).click();await expect(page.getByRole('heading',{name:'Ringkasan',exact:true})).toBeVisible();}
 test('SDM dashboard, filter calendar and mobile layout',async({page})=>{
   const errors:string[]=[];page.on('pageerror',e=>errors.push(e.message));
-  await page.setViewportSize({width:1440,height:1080});await login(page,'SDM');await expect(page.getByText('Selamat datang, Nadia.')).toBeVisible();
+  await page.setViewportSize({width:1440,height:1080});await login(page,'SDM');await expect(page.locator('.stats-grid')).toBeVisible();
   mkdirSync('artifacts',{recursive:true});await page.screenshot({path:'artifacts/dashboard-desktop.png',fullPage:true});
   await page.getByRole('button',{name:'Kalender cuti',exact:true}).click();await expect(page.locator('.calendar-grid')).toBeVisible();await page.getByLabel('Filter posisi kalender').selectOption('CS_BINA');
   await page.setViewportSize({width:390,height:844});await page.getByRole('button',{name:'Buka menu'}).click();await page.locator('nav').getByRole('button',{name:'Ringkasan',exact:true}).click();
-  await expect(page.locator('.welcome')).toBeVisible();await page.screenshot({path:'artifacts/dashboard-mobile.png',fullPage:true,animations:'disabled'});
+  await expect(page.locator('.stats-grid')).toBeVisible();await page.screenshot({path:'artifacts/dashboard-mobile.png',fullPage:true,animations:'disabled'});
   expect(await page.evaluate(()=>document.documentElement.scrollWidth<=innerWidth)).toBe(true);expect(errors).toEqual([]);
 });
 test('employee submits regular leave, SDM confirms and approves, email captured',async({page,browser})=>{

diff --git a/design.md b/design.md
@@ -6,6 +6,8 @@ Acuan: [PRD](PRD.md) · [Arsitektur](architecture.md)
 
 ## 1. Prinsip desain
 
+Revisi 30 September 2026: tampilan disederhanakan sesuai masukan pengguna. Dashboard langsung menampilkan angka, pengajuan, dan kuota; tidak menggunakan banner sambutan, ilustrasi kalender dekoratif, slogan sidebar, atau footer promosi. Halaman menggunakan judul singkat tanpa paragraf pembuka berulang. Instruksi aturan tetap muncul pada form saat dibutuhkan. Halaman login menggunakan satu form sederhana. Warna aksen difokuskan pada tindakan utama dan status; avatar memakai warna netral.
+
 Form harus menjawab tiga pertanyaan sebelum karyawan menekan Kirim: kapan cuti boleh dimulai, berapa hari kerja yang benar-benar diajukan, dan apakah permohonan masih sesuai kuota serta jadwal posisi. Jika tanggal dipotong oleh aturan akhir bulan, perubahannya harus terlihat jelas dalam ringkasan.
 
 Bahasa antarmuka menggunakan istilah yang familiar: “Ajukan cuti”, “Menunggu SDM”, “Hari kerja”, dan “Tanggal efektif”. Istilah teknis seperti reservasi, job, outbox, dan idempotensi tidak ditampilkan kepada karyawan.
